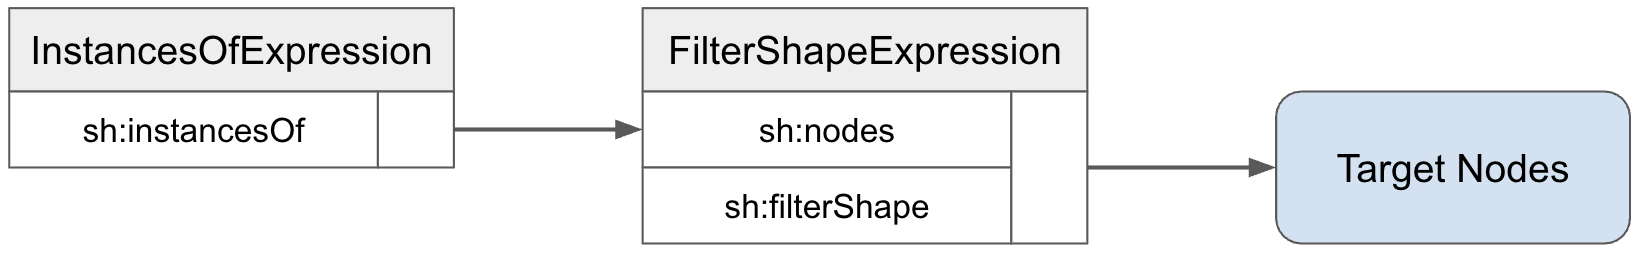
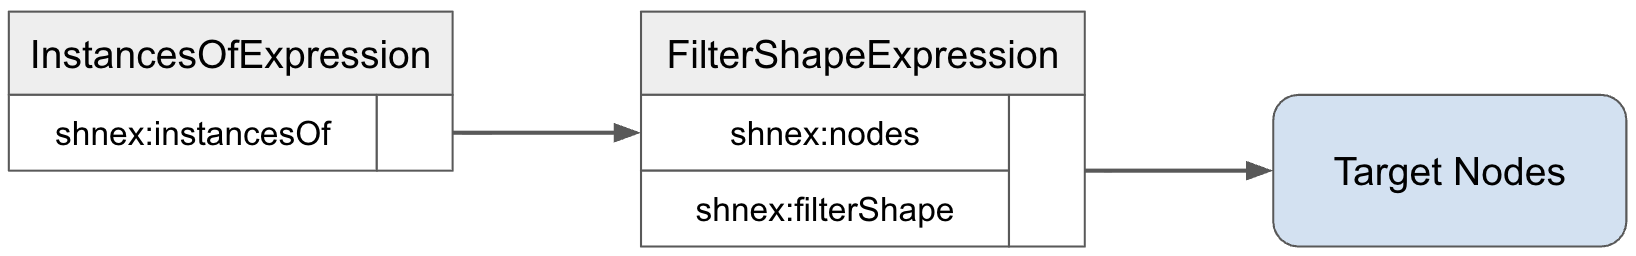
Issue 490 images updated (#531)
* #490: Updated images, also clarified one TODO in the Getting Started section

* Fixed a broken reference

diff --git a/shacl12-node-expr/index.html b/shacl12-node-expr/index.html
@@ -611,9 +611,9 @@ ex:EstonianCompanyShape
 			</p>
 			<div>
 				<img 
-				alt="Illustration of the data flow between node expressions"
-				src="images/FilterShapeExampleDiagram.png"
-				width="800px"
+					alt="Illustration of the data flow between node expressions"
+					src="images/FilterShapeExampleDiagram.png"
+					width="800px"
 				>
 			</div>
 			<p>
@@ -683,9 +683,9 @@ ex:Company-employeeCount
 			</p>
 			<div>
 				<img 
-				alt="Illustration of the data flow between node expressions computing the employee count"
-				src="images/CountExampleDiagram.png"
-				width="800px"
+					alt="Illustration of the data flow between node expressions computing the employee count"
+					src="images/CountExampleDiagram.png"
+					width="800px"
 				>
 			</div>
 			<p>
@@ -695,7 +695,13 @@ ex:Company-employeeCount
 				the currently displayed company is the <a>focus node</a>, for which the number of employees
 				will be fetched.
 			</p>
-			<p class="todo">Clarify when these derived properties can be used (e.g. in sh:path expressions but not as triples elsewhere)</p>
+			<p>
+				Note that these derived properties do not automatically lead to the creation of triples.
+				Tools that use these <code>sh:values</code> expressions typically compute the values on demand
+				only, for example whenever an instance of <code>ex:Company</code> is displayed or queried.
+				Some tools MAY however materialize the triples, for example so that they become available to
+				SPARQL queries.
+			</p>
 		</section>
 
 		<section id="syntax">
@@ -2794,7 +2800,7 @@ ex:USA
 					</div>
 				</aside>
 				<p>
-					Using this extra information, we can now define a <code>sh:in</code> constraint using a <a>Path Expression</a>:
+					Using this extra information, we can now define a <code>sh:in</code> constraint using a <a>path values expression</a>:
 				</p>
 				<aside class="example" title="Example of Dynamic SHACL using a node expression at sh:in">
 					<div class="shapes-graph">
